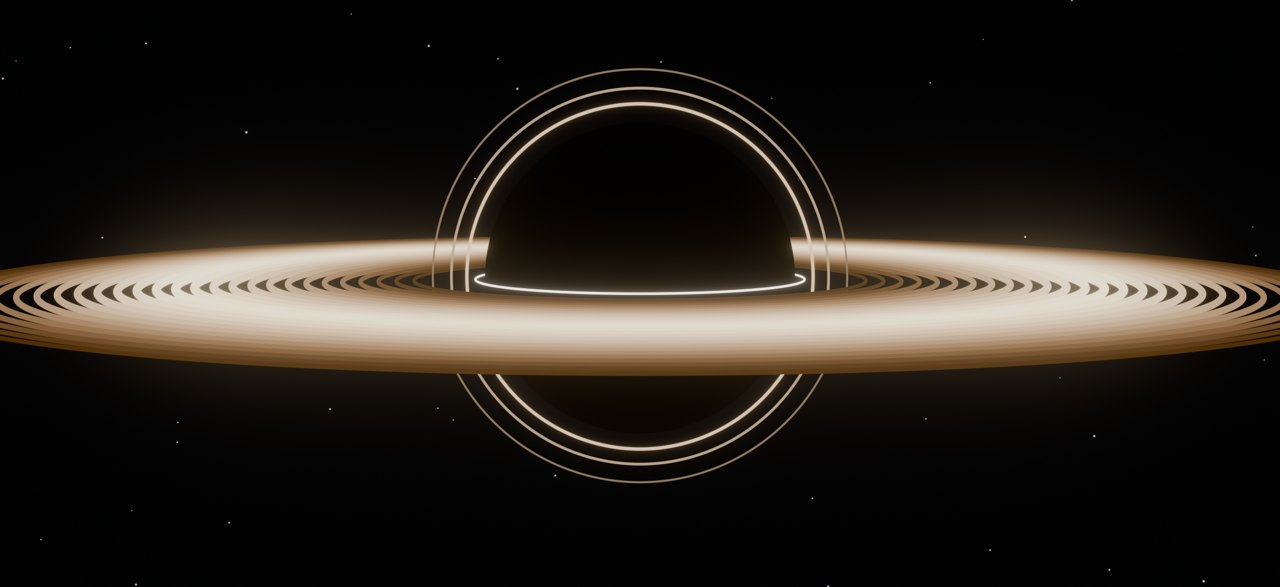
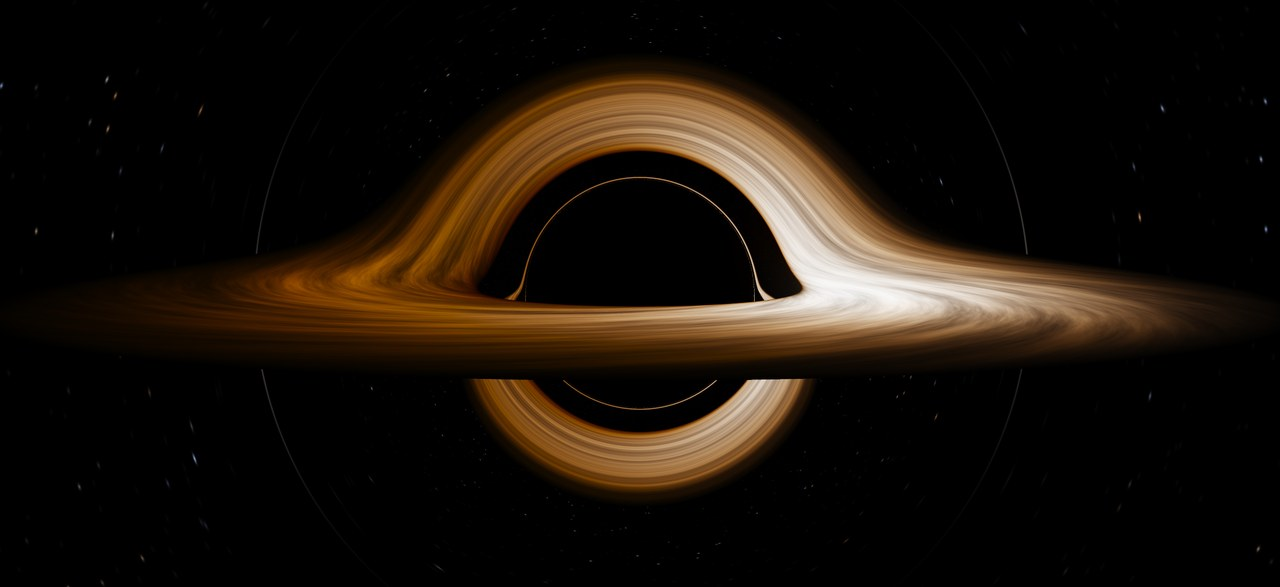
Update root: README.md; docs: blackhole.jpg; phoenixastar: views.py; viz: blackhole.png, blackhole_rt.json (+1 more); web: blackhole.jpg, blackhole_1280.jpg (+2 more)

diff --git a/web/src/pages/MissionControl.tsx b/web/src/pages/MissionControl.tsx
@@ -152,7 +152,7 @@ function PhysicsFeature() {
   const tb = state?.problems.find((p) => p.slug === 'three-body-periodic-orbits')
   return (
     <Link to="/problems/event-horizon" className="group relative block overflow-hidden rounded-2xl border border-white/[0.07] bg-[#07080A]">
-      <img src={assetUrl('/gallery/blackhole.jpg')} alt="Event Horizon: a black hole drawn from the measured Page curve"
+      <img src={assetUrl('/gallery/blackhole.jpg')} alt="A Schwarzschild black hole ray-traced through curved spacetime"
         className="block h-[200px] w-full object-cover opacity-90 transition-opacity duration-300 group-hover:opacity-100 sm:absolute sm:inset-y-0 sm:right-0 sm:h-full sm:w-[72%]"
         loading="lazy" />
       <div className="pointer-events-none absolute inset-0 hidden bg-gradient-to-r from-[#07080A] from-30% via-[#07080A]/60 via-40% to-transparent to-60% sm:block" />
@@ -166,7 +166,7 @@ function PhysicsFeature() {
         </p>
         <div className="text-[12px] font-medium text-cyan">Open the study &rarr;</div>
       </div>
-      <div className="relative px-6 pb-4 text-[10.5px] text-fg-dim sm:absolute sm:bottom-3 sm:right-4 sm:p-0">Disk rings = measured S(R) per evaporation step (N = 26). Artwork from data.</div>
+      <div className="relative px-6 pb-4 text-[10.5px] text-fg-dim sm:absolute sm:bottom-3 sm:right-4 sm:p-0">Ray-traced on an A100: 24M light rays through Schwarzschild spacetime. A simulation, not a photograph.</div>
     </Link>
   )
 }

diff --git a/phoenixastar/views.py b/phoenixastar/views.py
@@ -113,9 +113,7 @@ def problem_detail(slug):
         out["artifact"] = ({"kind": "report", **eh, "paper": "problems/event-horizon/paper/event_horizon.md",
                             "notebook": "problems/event-horizon/notebooks/event_horizon.ipynb",
                             "hero": "/gallery/blackhole.jpg",
-                            "hero_caption": "Event Horizon, rendered in Blender from the measured data: each accretion-disk ring is one "
-                                            "evaporation step of the N = 26 Page curve, brightness = measured entropy S(R). "
-                                            "Artwork from data, not an astrophysical image."} if eh else None)
+                            "hero_caption": "A Schwarzschild black hole ray-traced on an A100: 24 million light rays integrated along exact null geodesics around a thin Keplerian accretion disk (ISCO to 13 r_s) with a Novikov-Thorne temperature profile, gravitational redshift and Doppler beaming. The far side of the disk is lensed over and under the shadow; the thin ring is the photon ring. A simulation, not a photograph; the gas texture is procedural. Source: viz/blackhole/raytrace.py."} if eh else None)
     out["templates"] = [{"name": n, "resource": t.get("resource", "cpu"), "params": strategies.public_params(t)}
                         for n, t in sorted(strategies.for_problem(slug).items())]
     return out

diff --git a/README.md b/README.md
@@ -35,12 +35,12 @@ replayed and audited.
 
 <table>
   <tr>
-    <td width="33%"><img src="docs/assets/event-horizon/blackhole.jpg" alt="Event Horizon: a black hole drawn from the measured Page curve"></td>
+    <td width="33%"><img src="docs/assets/event-horizon/blackhole.jpg" alt="A Schwarzschild black hole ray-traced through curved spacetime"></td>
     <td width="33%"><img src="docs/assets/threebody/candidates.png" alt="Three-body candidate orbits"></td>
     <td width="33%"><img src="docs/assets/hero.jpg" alt="No-three-in-line lattice"></td>
   </tr>
   <tr>
-    <td><sub><b>Black hole information.</b> Event Horizon, rendered from the measured data: each disk ring is one evaporation step of the N = 26 Page curve (artwork from data).</sub></td>
+    <td><sub><b>Black holes.</b> A Schwarzschild black hole ray-traced on an A100: 24 million light rays along exact null geodesics, with lensing, redshift and Doppler beaming.</sub></td>
     <td><sub><b>Celestial mechanics.</b> 17 verified periodic three-body orbits in 16 families absent from the 2,060 catalogued orbits we checked (candidates).</sub></td>
     <td><sub><b>Mathematics.</b> A live SAT model of no-three-in-line on the 75 x 75 grid; red threads are lines that still hold three points.</sub></td>
   </tr>
@@ -250,8 +250,8 @@ The loop only needs a problem and an exact checker, so the same lab runs two phy
 
 ### EVENT HORIZON (black hole information, quantum-information toy models)
 
-<p align="center"><img src="docs/assets/event-horizon/blackhole.jpg" alt="Event Horizon: a black hole drawn from the measured Page curve" width="100%"></p>
-<p align="center"><sub>Rendered in Blender from the measured N = 26 evaporation run: each accretion-disk ring is one evaporation step, its brightness the measured radiation entropy S(R), so the disk brightens and fades along the Page curve. Artwork from data, not an astrophysical image.</sub></p>
+<p align="center"><img src="docs/assets/event-horizon/blackhole.jpg" alt="A Schwarzschild black hole ray-traced through curved spacetime" width="100%"></p>
+<p align="center"><sub>A Schwarzschild black hole ray-traced on an A100: 24 million light rays integrated along exact null geodesics around a thin Keplerian accretion disk (ISCO to 13 r_s) with a Novikov-Thorne temperature profile, gravitational redshift and Doppler beaming. The far side of the disk is lensed over and under the shadow; the thin ring is the photon ring. A simulation, not a photograph; the gas texture is procedural. Source: <a href="viz/blackhole/raytrace.py"><code>viz/blackhole/raytrace.py</code></a> (renders in 11 s on one A100).</sub></p>
 
 A verified study of the Page curve, Page's theorem, sequential evaporation, a Bell-pair "Hawking" model, scrambling
 and Hayden-Preskill decoupling, run with exact state vectors on an A100 (up to 27 qubits). 109 tests pass; 9 key claims
